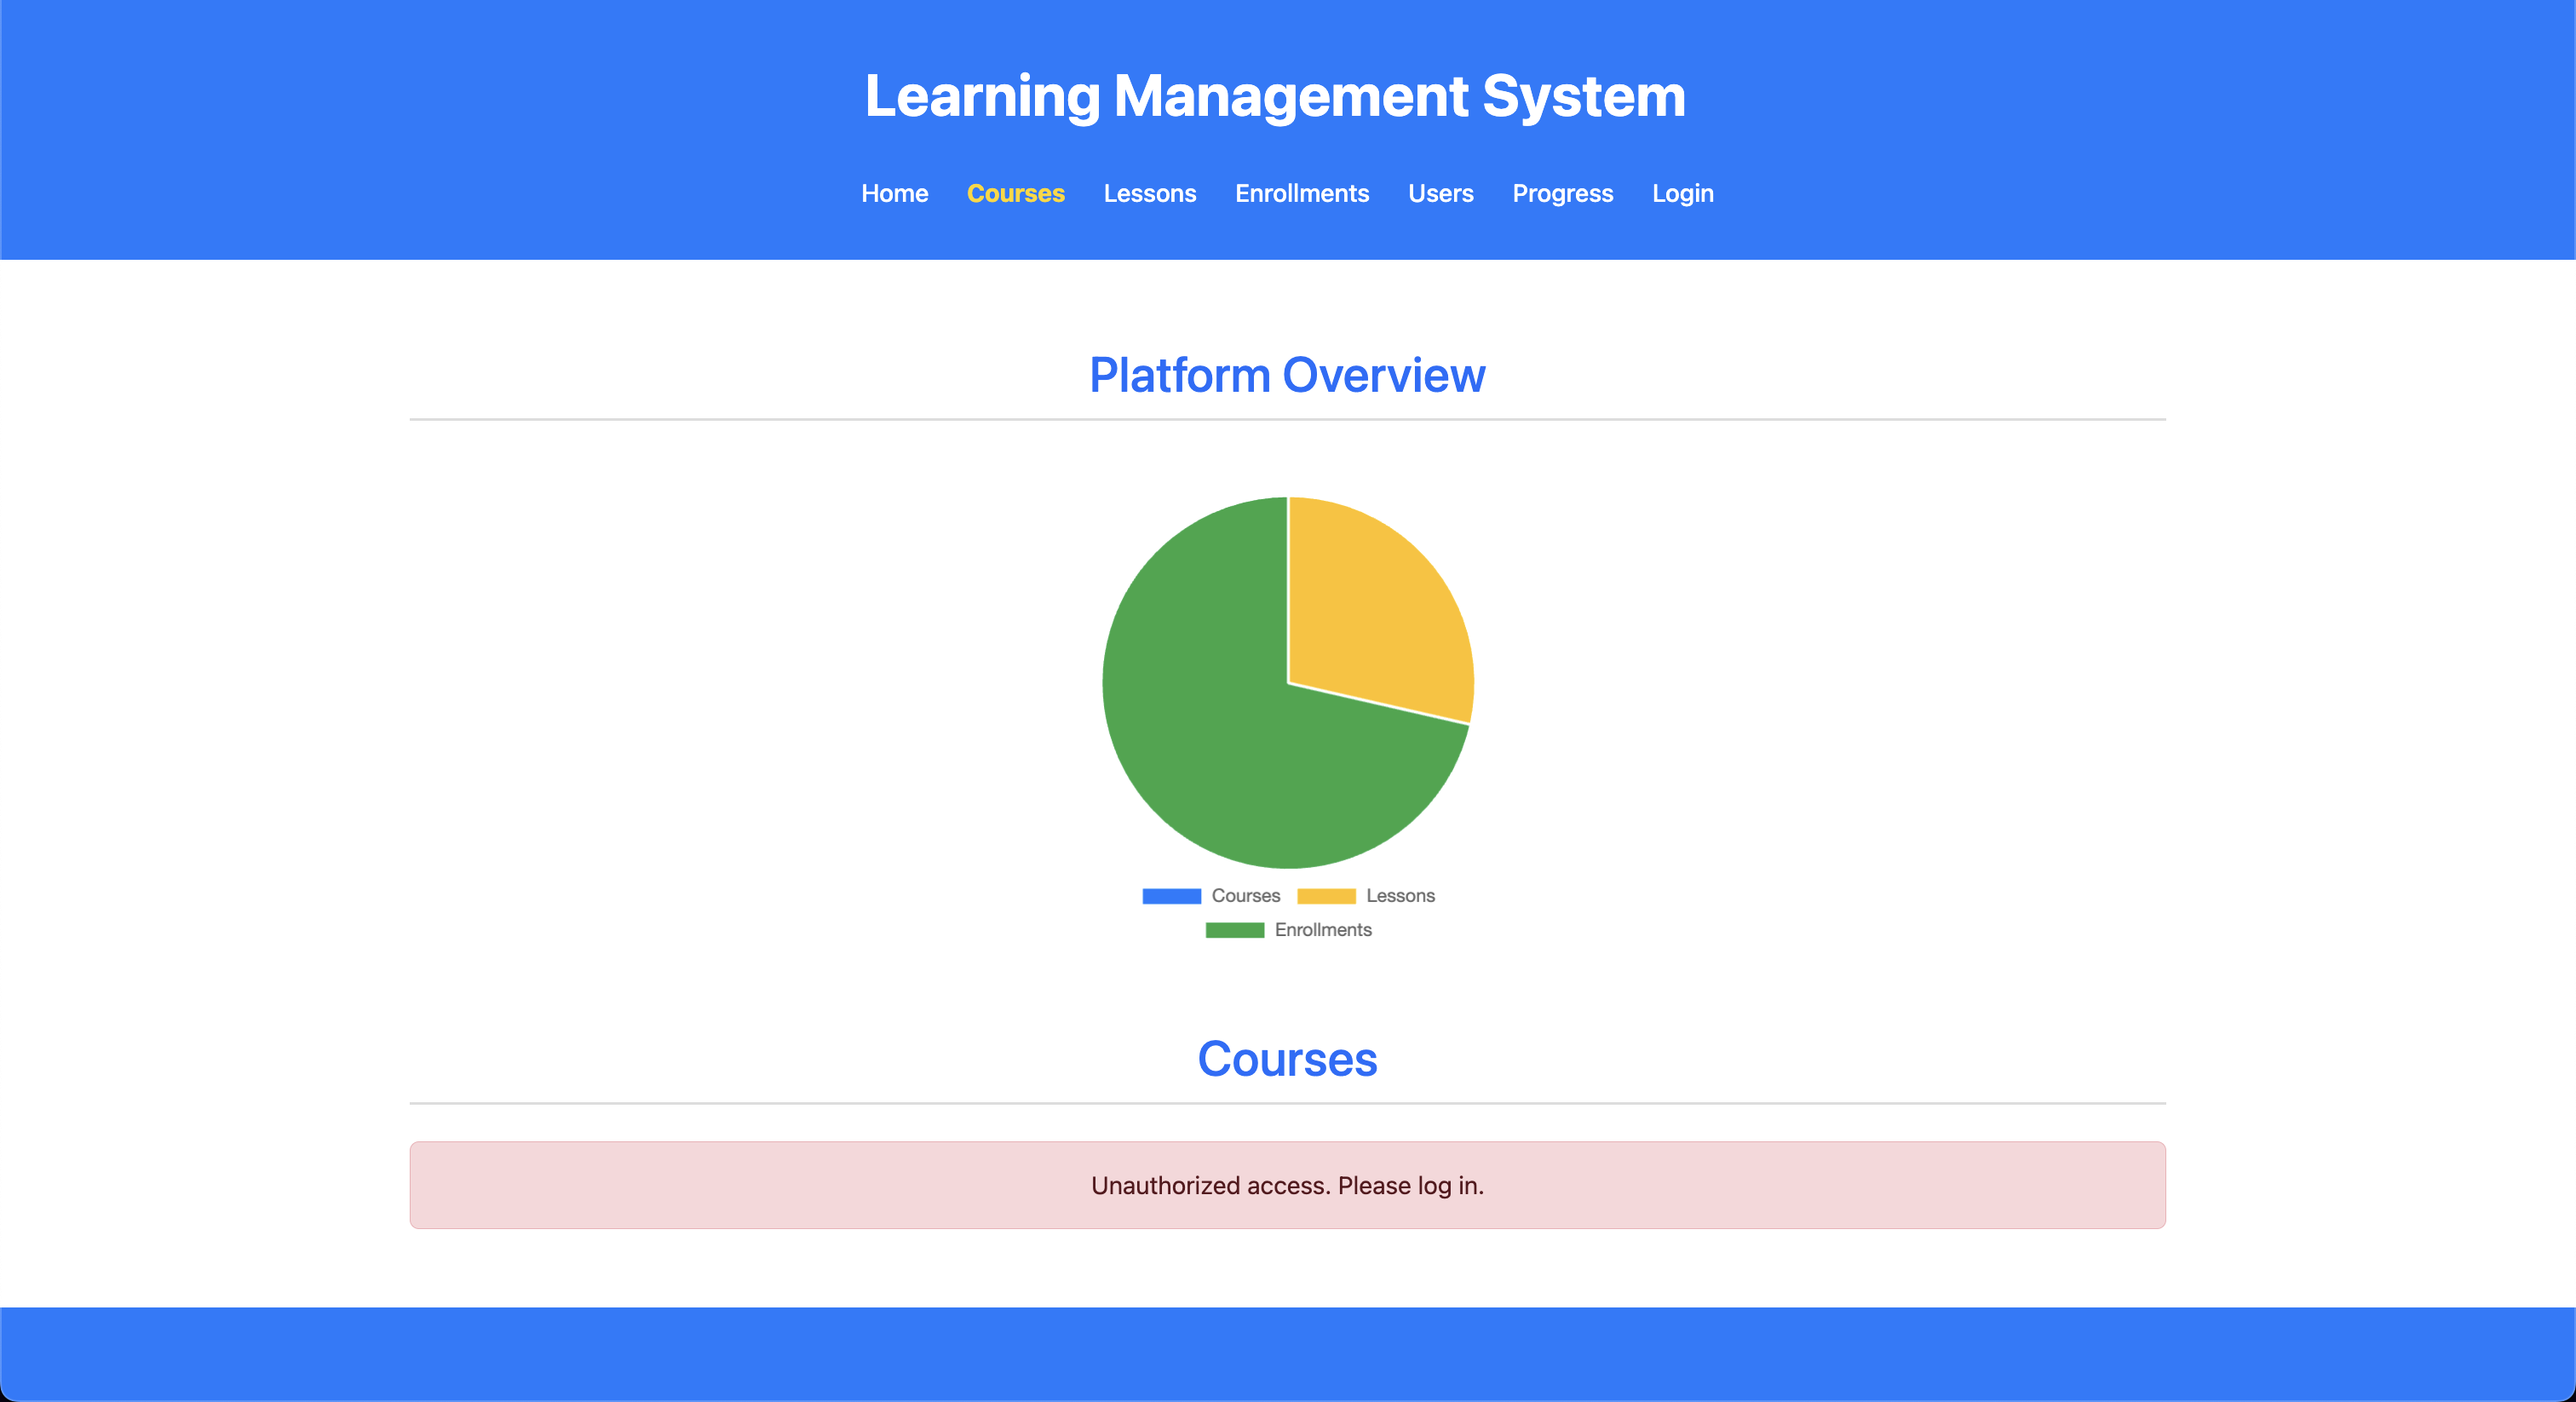
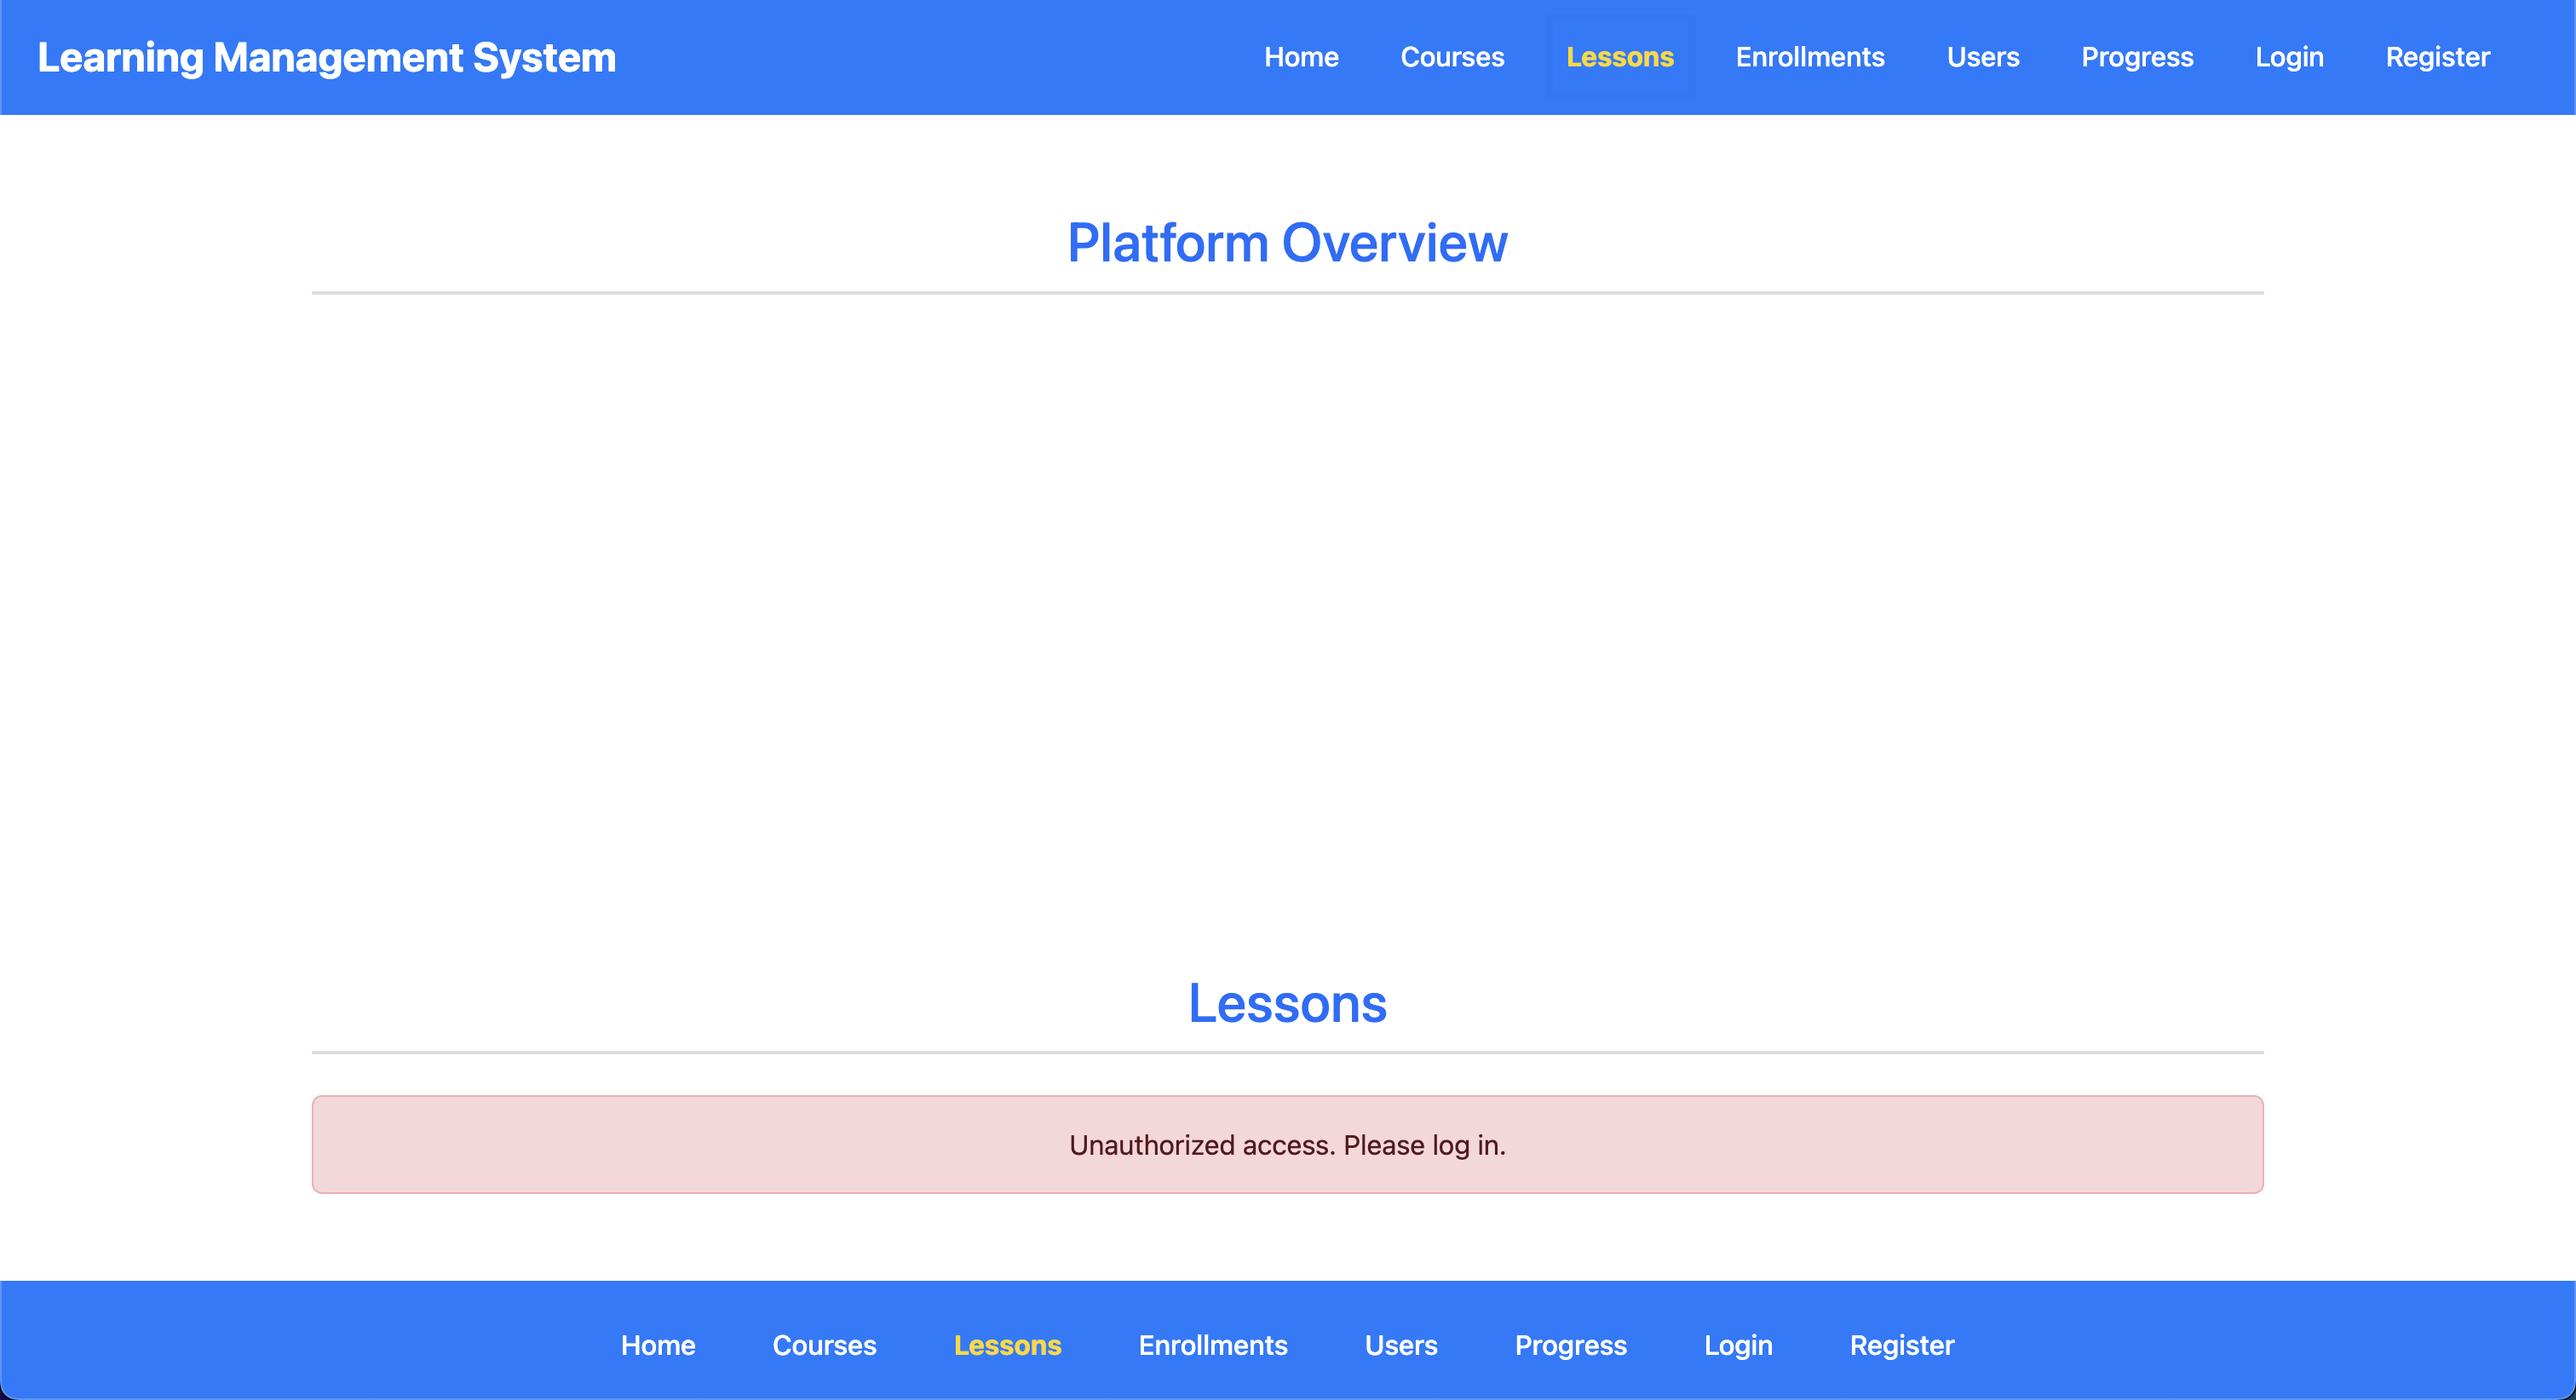
Update: Added K8s & Jenkins CI/CD

diff --git a/LMS-Frontend/app/src/app/components/course-list/course-list.component.ts b/LMS-Frontend/app/src/app/components/course-list/course-list.component.ts
@@ -22,6 +22,7 @@ export class CourseListComponent implements OnInit {
   private apiUrl = 'https://learning-management-system-fullstack.onrender.com/api/';
   lessonsLength: number = 0;
   enrollmentsLength: number = 0;
+  isAuthenticated: boolean = true; // Flag to check authentication status
 
   constructor(
     private courseService: CourseService,
@@ -46,18 +47,23 @@ export class CourseListComponent implements OnInit {
         this.lessonsLength = lessonsData.length;
         this.enrollmentsLength = enrollmentsData.length;
         this.loading = false; // Stop loading after data fetching is complete
-        this.renderChart(); // Render the chart after data is fetched
+        if (this.isAuthenticated) {
+          this.renderChart(); // Render the chart after data is fetched
+        }
       },
       (error) => {
         this.loading = false; // Stop loading in case of error
         if (error.status === 401) {
+          this.isAuthenticated = false; // Set flag to false on unauthorized access
           this.errorMessage = 'Unauthorized access. Please log in.';
         } else {
           this.errorMessage = 'Error fetching data.';
         }
         this.lessonsLength = 20;
         this.enrollmentsLength = 50;
-        this.renderChart();
+        if (this.isAuthenticated) {
+          this.renderChart(); // Ensure the chart is only rendered if authenticated
+        }
       }
     );
   }
@@ -70,7 +76,7 @@ export class CourseListComponent implements OnInit {
     const ctx = document.getElementById('courseChart') as HTMLCanvasElement;
 
     if (this.chart) {
-      this.chart.destroy();
+      this.chart.destroy(); // Destroy any existing chart instance before creating a new one
     }
 
     const chartConfig: ChartConfiguration<'pie'> = {

diff --git a/LMS-Frontend/app/src/app/components/enrollment-list/enrollment-list.component.ts b/LMS-Frontend/app/src/app/components/enrollment-list/enrollment-list.component.ts
@@ -29,6 +29,7 @@ export class EnrollmentListComponent implements OnInit {
   private apiUrl = 'https://learning-management-system-fullstack.onrender.com/api/';
   coursesLength: number = 0;
   lessonsLength: number = 0;
+  isAuthenticated: boolean = true; // Flag to check authentication status
 
   constructor(
     private enrollmentService: EnrollmentService,
@@ -57,13 +58,13 @@ export class EnrollmentListComponent implements OnInit {
       (error) => {
         this.loading = false; // Stop loading in case of error
         if (error.status === 401) {
+          this.isAuthenticated = false; // Set flag to false on unauthorized access
           this.errorMessage = 'Unauthorized access. Please log in.';
         } else {
           this.errorMessage = 'Error fetching data.';
         }
         this.coursesLength = 10; // Fallback values in case of error
         this.lessonsLength = 10;
-        this.renderChart();
       }
     );
   }
@@ -89,7 +90,6 @@ export class EnrollmentListComponent implements OnInit {
       (error) => {
         this.loading = false; // Stop loading even in case of error
         console.error('Error fetching user details', error);
-        this.renderChart();
       });
   }
 
@@ -108,13 +108,14 @@ export class EnrollmentListComponent implements OnInit {
             }
           });
           this.loading = false;
-          this.renderChart();
+          if (this.isAuthenticated) { // Ensure the chart is only rendered if authenticated
+            this.renderChart();
+          }
         }
       },
       (error) => {
         this.loading = false; // Stop loading even in case of error
         console.error('Error fetching course details', error);
-        this.renderChart();
       });
   }
 

diff --git a/README.md b/README.md
@@ -118,6 +118,12 @@ However, please note that our backend server may spin down due to inactivity, so
   <img src="docs/progress-ui.png" alt="Progress List" style="border-radius: 10px" width="100%"/>
 </p>
 
+**Registration Page**:
+
+<p align="center" style="cursor: pointer">
+  <img src="docs/register-ui.png" alt="Registration Page" style="border-radius: 10px" width="100%"/>
+</p>
+
 **Login Page**:
 
 <p align="center" style="cursor: pointer">
